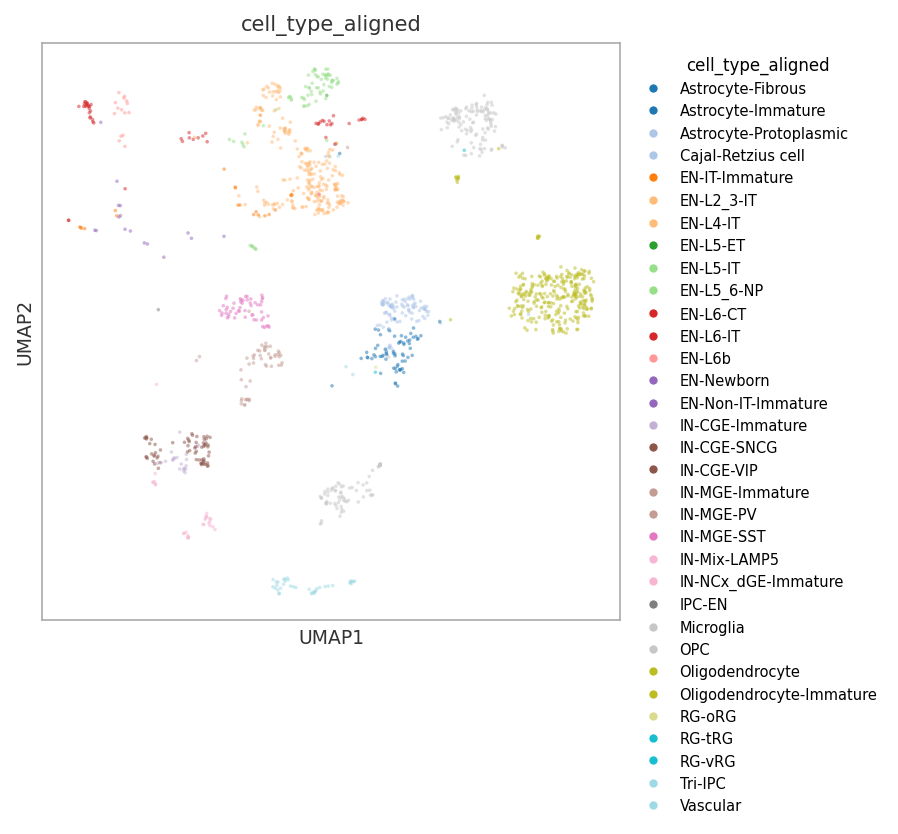
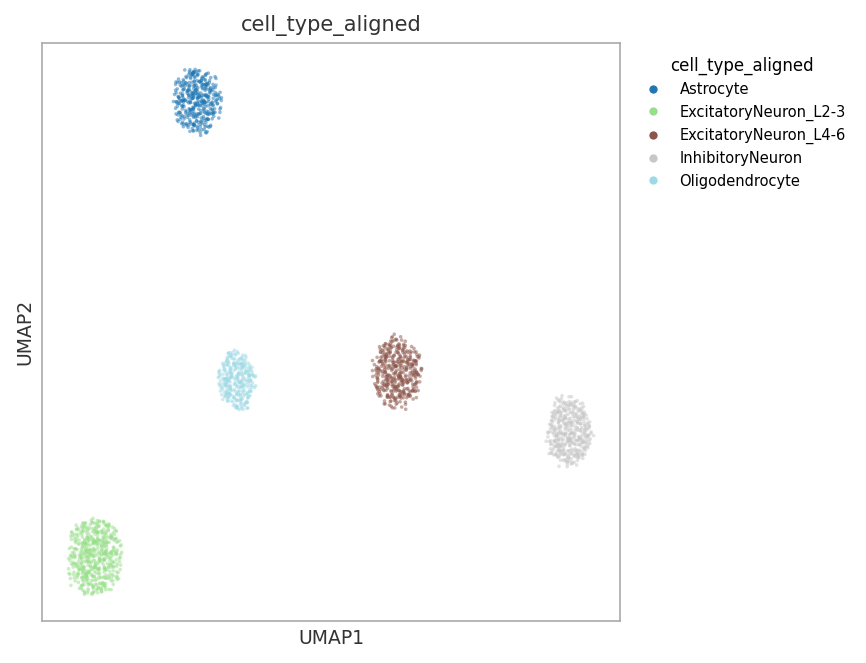
Checkpoint from VS Code for cloud agent session

diff --git a/code/CellRank2/run_pipeline.py b/code/CellRank2/run_pipeline.py
@@ -1,9 +1,18 @@
 """
 Main orchestration script for the CellRank 2 lineage tracing pipeline.
 
+Environment setup (first time only):
+    mamba env create -f code/CellRank2/environment.yaml
+
 Usage (from project root):
-    # With YAML config:
-    PYTHONPATH=code python -m CellRank2.run_pipeline --config code/CellRank2/default_config.yaml
+    # Activate the mamba environment (provides petsc4py/slepc4py for sparse krylov solver):
+    conda activate cellrank2
+
+    # Single process:
+    KMP_DUPLICATE_LIB_OK=TRUE PYTHONPATH=code python -m CellRank2.run_pipeline --config code/CellRank2/default_config.yaml
+
+    # Parallel (recommended for large datasets — uses SLEPc Schur decomposition across N cpus):
+    KMP_DUPLICATE_LIB_OK=TRUE PYTHONPATH=code mpirun -n 4 python -m CellRank2.run_pipeline --config code/CellRank2/default_config.yaml
 
     # With CLI overrides:
     PYTHONPATH=code python -m CellRank2.run_pipeline \\
@@ -37,6 +46,7 @@ from .estimator import (
     compute_lineage_drivers,
     compute_macrostates,
     set_terminal_and_initial_states,
+    set_terminal_states_from_cell_types,
     subset_to_lineage,
 )
 from .kernels import bin_ages, build_kernels, ensure_neighbors, run_moscot_ot
@@ -165,13 +175,26 @@ def run(config: CellRankConfig) -> ad.AnnData:
         logger.info("─" * 40)
         logger.info("STEP: gpcca")
         g = build_gpcca(combined_kernel, config, logger)
-        g = compute_macrostates(g, config, logger)
-        set_terminal_and_initial_states(g, config, logger)
 
-        if config.save_plots:
-            plot_macrostates(adata, g, config, logger)
-            plot_coarse_transition_matrix(g, config, logger)
-            plot_obs_vars(adata, config, logger)
+        if config.use_cell_type_states:
+            # ── Direct cell-type assignment (bypass GPCCA Schur decomposition) ──
+            logger.info(
+                f"  use_cell_type_states=True: using '{config.cell_type_key}' "
+                "labels directly as absorbing terminal states."
+            )
+            set_terminal_states_from_cell_types(g, adata, config, logger)
+            # Coarse transition matrix / macrostate plots are not available
+            # without the Schur decomposition.
+            if config.save_plots:
+                plot_obs_vars(adata, config, logger)
+        else:
+            # ── Standard GPCCA: spectral macrostates → terminal states ──
+            g = compute_macrostates(g, config, logger)
+            set_terminal_and_initial_states(g, config, logger)
+            if config.save_plots:
+                plot_macrostates(adata, g, config, logger)
+                plot_coarse_transition_matrix(g, config, logger)
+                plot_obs_vars(adata, config, logger)
 
         log_memory("After GPCCA", logger)
 

diff --git a/code/CellRank2/estimator.py b/code/CellRank2/estimator.py
@@ -174,6 +174,56 @@ def set_terminal_and_initial_states(
                 )
 
 
+def set_terminal_states_from_cell_types(
+    g,
+    adata: ad.AnnData,
+    config: CellRankConfig,
+    logger: logging.Logger,
+) -> None:
+    """Set terminal states directly from cell_type_key, bypassing GPCCA.
+
+    Each unique value in ``config.cell_type_key`` becomes an absorbing
+    terminal state with a hard 0/1 membership array.  This guarantees that
+    every cell type in your annotation is represented as a distinct lineage
+    (e.g. 'ExcitatoryNeuron_L2-3' will always appear), at the cost of not
+    using the spectral structure of the transition matrix to infer which
+    states are truly absorbing.
+
+    Use when you trust your cell-type annotation more than GPCCA's automatic
+    macrostate detection, or when ``n_macrostates`` is too low to resolve
+    fine-grained subtypes.
+    """
+    import numpy as np
+
+    col = adata.obs[config.cell_type_key].astype(str)
+    cell_types = sorted(col.unique().tolist())
+    n_cells = config.n_terminal_cells
+
+    logger.info(
+        f"  Setting terminal states directly from '{config.cell_type_key}' "
+        f"({len(cell_types)} unique types, {n_cells} cells/type — skipping GPCCA Schur decomposition)."
+    )
+
+    # Sample n_cells representative cells per type (rest stay transient).
+    # Uses dict form which does NOT require prior compute_macrostates.
+    rng = np.random.default_rng(0)
+    states_dict = {}
+    for ct in cell_types:
+        all_names = adata.obs_names[(col == ct).values].tolist()
+        n_sample = min(n_cells, len(all_names))
+        sampled = rng.choice(all_names, size=n_sample, replace=False).tolist()
+        states_dict[ct] = sampled
+        logger.info(f"    {ct}: {n_sample} / {len(all_names)} cells sampled as terminal")
+
+    with Timer("set_terminal_states (cell-type assignment)", logger):
+        g.set_terminal_states(states=states_dict)
+
+    assigned = sorted(g.terminal_states.cat.categories.tolist())
+    logger.info(f"  Terminal states set ({len(assigned)}): {assigned}")
+
+    log_memory("After cell-type state assignment", logger)
+
+
 def compute_fate_probabilities(
     g,
     config: CellRankConfig,

diff --git a/code/CellRank2/test_pipeline.py b/code/CellRank2/test_pipeline.py
@@ -6,14 +6,18 @@ it is subsampled to ``n_cells`` cells before running CellRank.  Otherwise
 a synthetic AnnData is generated so the pipeline logic can be verified
 without access to the HPC data.
 
-Usage (from project root):
-    PYTHONPATH=code python -m CellRank2.test_pipeline
+Usage (from project root) — run each command as a single line:
+    Activate the mamba environment (provides petsc4py/slepc4py for sparse krylov solver):
+    conda activate cellrank2
 
-    # Point at the real data (subsample to 2000 cells):
-    PYTHONPATH=code python -m CellRank2.test_pipeline \\
-        --input rds-cam-psych-transc-Pb9UGUlrwWc/Cam_snRNAseq/integrated/scvi_output/integrated.h5ad \\
-        --n_cells 2000 \\
-        --output_dir /tmp/cellrank_test
+    # Synthetic data (fast, no real data needed):
+    KMP_DUPLICATE_LIB_OK=TRUE PYTHONPATH=code python -m CellRank2.test_pipeline --synthetic
+
+    # Real data subsampled to 2000 cells:
+    KMP_DUPLICATE_LIB_OK=TRUE PYTHONPATH=code python -m CellRank2.test_pipeline --input rds-cam-psych-transc-Pb9UGUlrwWc/Cam_snRNAseq/integrated/scvi_output/integrated.h5ad --n_cells 2000
+
+    # Real data subsampled to 10000 cells:
+    KMP_DUPLICATE_LIB_OK=TRUE PYTHONPATH=code python -m CellRank2.test_pipeline --input rds-cam-psych-transc-Pb9UGUlrwWc/Cam_snRNAseq/integrated/scvi_output/integrated.h5ad --n_cells 30000
 """
 
 import argparse
@@ -230,7 +234,7 @@ def main():
         ot_epsilon=0.05,
         ot_max_iterations=500,
         rtk_weight=0.8,
-        n_macrostates=5,   # 5 states to match the 5 distinct cell types in synthetic data
+        use_cell_type_states=True,  # synthetic data has 5 exact cell types; use them directly
         cluster_key="cell_type_aligned",
         terminal_states=[],
         initial_states=[],

diff --git a/code/CellRank2/config.py b/code/CellRank2/config.py
@@ -44,6 +44,16 @@ class CellRankConfig:
     use_minchi: bool = False            # if True, use [min, max] range instead of fixed n
     cluster_key: str = "cell_type_aligned"   # for naming macrostates
 
+    # -- Direct cell-type state assignment (alternative to GPCCA macrostates) --
+    # When True, skip the GPCCA Schur decomposition entirely.  Each unique value
+    # in cell_type_key is treated as an absorbing terminal state using hard 0/1
+    # membership arrays.  Terminal-state names will exactly match cell_type_key
+    # categories, guaranteeing the L2-3 lineage is always present.
+    use_cell_type_states: bool = False
+    # Number of representative cells sampled per cell type when use_cell_type_states=True.
+    # The sampled cells become absorbing terminal states; the rest are transient.
+    n_terminal_cells: int = 30
+
     # -- Terminal / initial state selection --
     # Provide explicit terminal state names (matching cluster labels) when known.
     # Leave empty to rely on automatic selection after compute_macrostates.

diff --git a/code/CellRank2/plots.py b/code/CellRank2/plots.py
@@ -315,9 +315,12 @@ def plot_excitatory_l23_fate_umap(
             + ", ".join(lineage_names[i] for i in l23_indices)
         )
     else:
-        logger.warning(
-            f"  No lineages matching '{l23_pattern}' found in {lineage_names}. "
-            "Excitatory UMAP will be plotted without L2-3 highlighting."
+        logger.error(
+            f"  No lineages matching '{l23_pattern}' found in available lineages: "
+            + ", ".join(lineage_names) + ". "
+            "Excitatory UMAP will be plotted without L2-3 highlighting. "
+            "Increase n_macrostates so that L2-3 neurons form a distinct macrostate, "
+            "or set terminal_states explicitly in the config."
         )
 
     # Per-cell argmax fate index

diff --git a/code/CellRank2/utils.py b/code/CellRank2/utils.py
@@ -96,6 +96,14 @@ def get_device_info(logger: logging.Logger) -> dict:
                 f"GPU detected: {props.name} "
                 f"({props.total_memory / 1e9:.1f} GB VRAM)"
             )
+        elif torch.backends.mps.is_available():
+            import platform
+            info = {
+                "device": "mps",
+                "gpu_name": f"Apple Silicon MPS ({platform.machine()})",
+                "has_gpu": True,
+            }
+            logger.info(f"MPS (Metal) detected: Apple Silicon GPU acceleration available.")
         else:
             logger.info("No GPU detected. Using CPU.")
         return info
